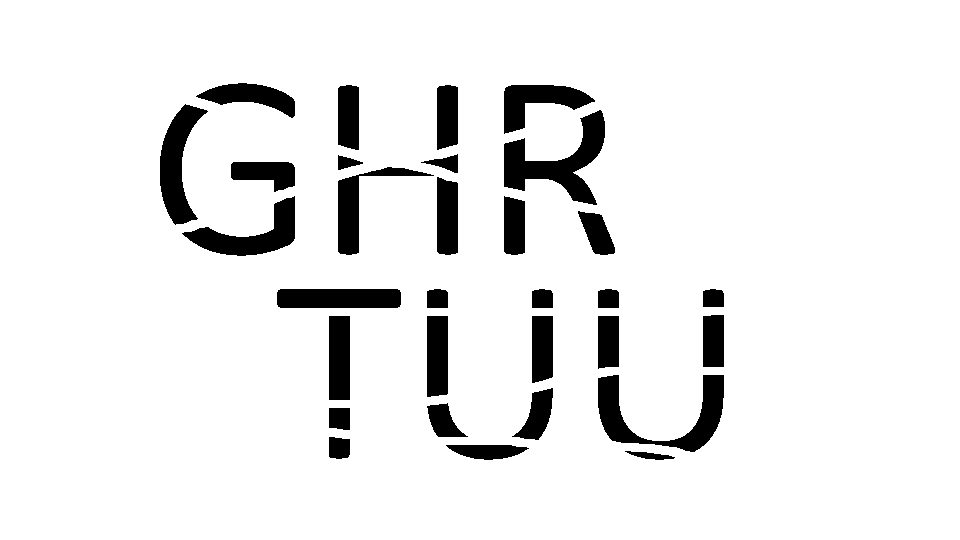
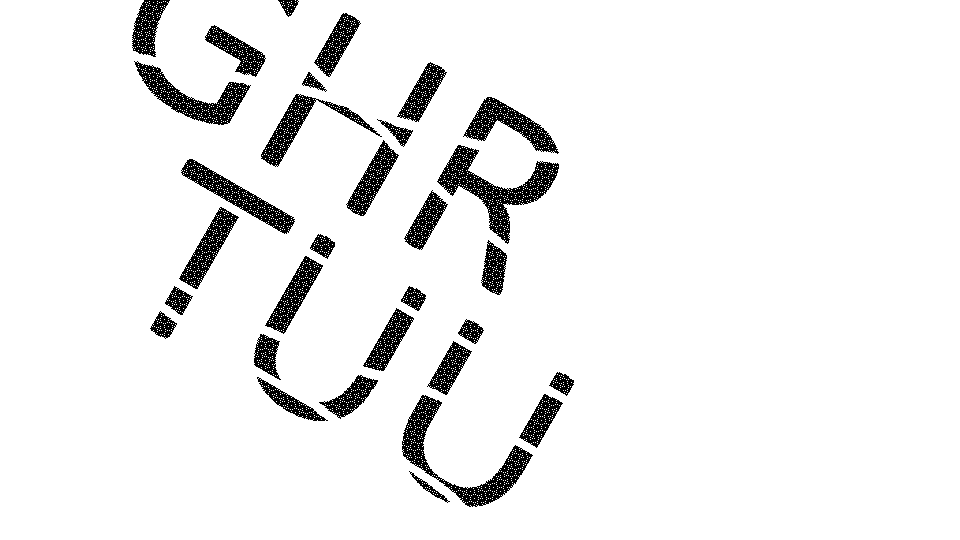
lab3

Changed region(s): [[0.125, 0.0, 0.6562, 0.9481], [0.625, 0.5333, 0.7812, 0.8593], [0.2812, 0.0, 0.3125, 0.0296]]

diff --git a/lab31.py b/lab31.py
@@ -1,0 +1,41 @@
+import cv2
+import numpy as np
+from PIL import Image, ImageDraw
+
+# Загрузите данные из файла
+with open('DS5.txt', 'r') as f:
+    data = [line.strip().split() for line in f]
+
+data = [(int(y), int(x)) for x, y in data]
+
+# Создайте матрицу преобразования
+alpha = 30  # Угол поворота
+M = cv2.getRotationMatrix2D((480, 480), alpha, 1)
+
+# Примените матрицу преобразования к данным
+data = np.array(data)
+data = np.hstack((data, np.ones((data.shape[0], 1))))
+data = np.dot(M, data.T).T[:, :2]
+
+# Округлите значения до двух знаков после запятой
+data = np.around(data, decimals=2)
+
+# Создайте изображение
+img = Image.new("RGB", (960, 540), (255, 255, 255))
+draw = ImageDraw.Draw(img)
+
+# Отобразите данные
+for x, y in data:
+    draw.point((x, y), fill='black')
+
+# Переверните изображение на 180 градусов
+img = img.rotate(180)
+
+# Отзеркальте изображение по вертикали
+img = img.transpose(Image.FLIP_LEFT_RIGHT)
+
+# Сохраните изображение
+img.save('result.png')
+
+# Отобразите изображение
+img.show()

diff --git a/lab3.py b/lab3.py
@@ -1,0 +1,31 @@
+from PIL import Image, ImageDraw, ImageOps
+import math
+
+def rotate_point(point):
+    x, y = point
+    cx, cy = (480, 480)
+    angle_rad = math.radians(60)
+    x_new = round(cx + (x - cx) * math.cos(angle_rad) - (y - cy) * math.sin(angle_rad), 0)
+    y_new = round(cy + (x - cx) * math.sin(angle_rad) + (y - cy) * math.cos(angle_rad), 0)
+    return int(x_new), int(y_new)
+
+with open('DS5.txt', 'r') as f:
+    data = [line.strip().split() for line in f]
+
+data = [(int(y), int(x)) for x, y in data]
+
+img = Image.new("RGB", (960, 540), (255, 255, 255))
+draw = ImageDraw.Draw(img)
+
+new_img = Image.new("RGB", (960, 540), (255, 255, 255))
+draw_new = ImageDraw.Draw(new_img)
+
+for x, y in data:
+    x_new, y_new = rotate_point((x, y))
+    draw_new.point((x_new, y_new), fill='blue')
+
+new_img = new_img.rotate(180)
+new_img = new_img.transpose(Image.FLIP_LEFT_RIGHT)
+
+new_img.save('result.png')
+new_img.show()
